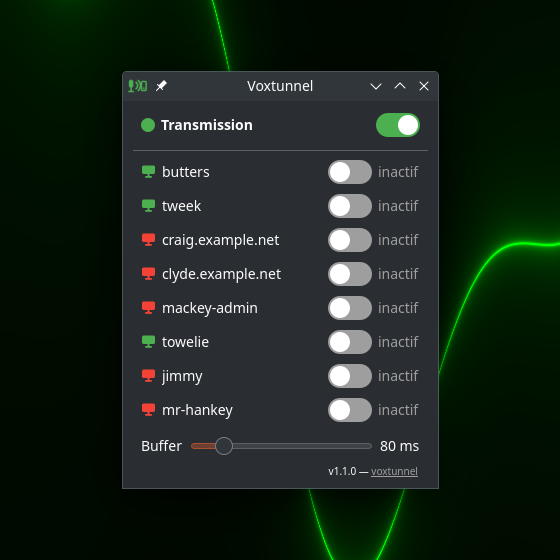
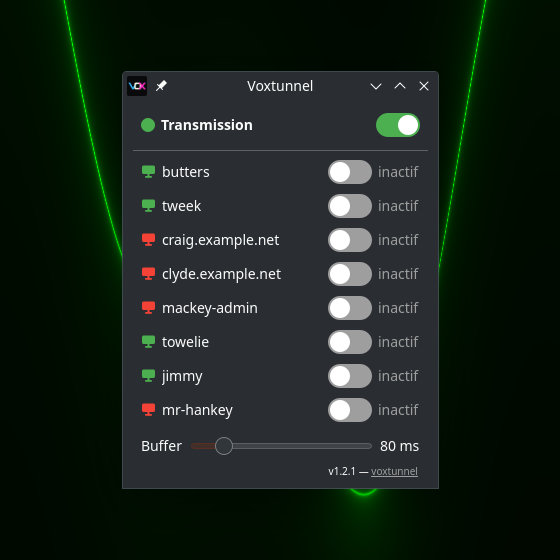
Site: per-OS install paths now builds exist, refresh window shot to 1.2.1
The install section predated the packaged releases: Windows and macOS
shared one cramped block that sent everyone to a git clone. Now that
tagged releases ship debs, WSL2 users install the same voxtunnel_*.deb
as Linux, so the site gets one clear block per OS (Windows via WSL2
with the deb, macOS from source, still experimental) and the CLI block
points at the engine shipped in the package. client-windows/README
follows. New app screenshot taken with 1.2.1 and the VOX titlebar icon.

Claude-Session: https://claude.ai/code/session_011Hc76g1frfqREQeQCf29uG

diff --git a/docs/fr/index.html b/docs/fr/index.html
@@ -390,8 +390,9 @@ a { color: var(--blue); }
   </div>
 
   <div class="term">
-    <div class="term-head"><span>client (bureau)</span><button data-copy="cli">copier</button></div>
-    <pre id="cli"><span class="g">sudo</span> apt install ./voxtunnel_*.deb
+    <div class="term-head"><span>client (bureau Linux)</span><button data-copy="cli">copier</button></div>
+    <pre id="cli"><span class="c"># même page de releases, le fichier voxtunnel_*.deb</span>
+<span class="g">sudo</span> apt install ./voxtunnel_*.deb
 voxtunnel</pre>
   </div>
 
@@ -406,12 +407,25 @@ python3 voxtunnel-tray.py
   </div>
 
   <div class="term">
-    <div class="term-head"><span>macOS / Windows — expérimental</span><button data-copy="xp">copier</button></div>
-    <pre id="xp"><span class="c"># macOS : brew install ffmpeg python ; pip3 install PyQt5</span>
-<span class="c"># Windows : WSL2 recommandé (voir client-windows/) ; natif : winget install ffmpeg python ; pip install PyQt5</span>
+    <div class="term-head"><span>Windows — WSL2, recommandé</span><button data-copy="win">copier</button></div>
+    <pre id="win"><span class="c"># le client Linux tourne tel quel dans WSL2 : WSLg relaie le micro</span>
+<span class="c"># Windows et affiche la fenêtre sur le bureau Windows</span>
+wsl --install -d Debian
+<span class="c"># puis, dans WSL, avec le même voxtunnel_*.deb que ci-dessus :</span>
+<span class="g">sudo</span> apt install ./voxtunnel_*.deb
+voxtunnel
+<span class="c"># les clés SSH vont dans le home WSL (~/.ssh), pas celui de Windows</span>
+<span class="c"># pas de WSL ? voie native (expérimentale, pas encore de build) : client-windows/</span></pre>
+  </div>
+
+  <div class="term">
+    <div class="term-head"><span>macOS — depuis les sources, expérimental</span><button data-copy="mac">copier</button></div>
+    <pre id="mac"><span class="c"># pas encore de build packagé : l'app de barre de menus se lance depuis un clone</span>
+<span class="g">brew</span> install ffmpeg python
+pip3 install PyQt5
 <span class="g">git</span> clone https://github.com/remmmi/voxtunnel.git
 python3 voxtunnel/client/voxtunnel-tray.py
-<span class="c"># testé en CI uniquement, jamais sur du vrai matériel - détails dans client-macos/ et client-windows/</span></pre>
+<span class="c"># macOS demande la permission micro à la première capture - détails dans client-macos/</span></pre>
   </div>
 
   <p class="wanted">Vous avez un Mac ou une machine Windows ? Ces clients
@@ -423,8 +437,10 @@ python3 voxtunnel/client/voxtunnel-tray.py
 
   <div class="term">
     <div class="term-head"><span>sans interface graphique</span><button data-copy="cli2">copier</button></div>
-    <pre id="cli2"><span class="g">VPS_HOST</span>=user@mon-vps ./voxtunnel.sh --check
-<span class="g">VPS_HOST</span>=user@mon-vps ./voxtunnel.sh</pre>
+    <pre id="cli2"><span class="c"># Linux / WSL - le moteur est livré avec le .deb :</span>
+<span class="g">VPS_HOST</span>=user@mon-vps /usr/share/voxtunnel/voxtunnel.sh --check
+<span class="g">VPS_HOST</span>=user@mon-vps /usr/share/voxtunnel/voxtunnel.sh
+<span class="c"># macOS : client-macos/voxtunnel.sh - Windows : client-windows\voxtunnel.cmd user@vps "Nom du micro"</span></pre>
   </div>
 </section>
 

diff --git a/docs/index.html b/docs/index.html
@@ -388,8 +388,9 @@ a { color: var(--blue); }
   </div>
 
   <div class="term">
-    <div class="term-head"><span>client (desktop)</span><button data-copy="cli">copy</button></div>
-    <pre id="cli"><span class="g">sudo</span> apt install ./voxtunnel_*.deb
+    <div class="term-head"><span>client (Linux desktop)</span><button data-copy="cli">copy</button></div>
+    <pre id="cli"><span class="c"># same releases page, the voxtunnel_*.deb file</span>
+<span class="g">sudo</span> apt install ./voxtunnel_*.deb
 voxtunnel</pre>
   </div>
 
@@ -404,12 +405,25 @@ python3 voxtunnel-tray.py
   </div>
 
   <div class="term">
-    <div class="term-head"><span>macOS / Windows — experimental</span><button data-copy="xp">copy</button></div>
-    <pre id="xp"><span class="c"># macOS: brew install ffmpeg python; pip3 install PyQt5</span>
-<span class="c"># Windows: WSL2 recommended (see client-windows/); native: winget install ffmpeg python; pip install PyQt5</span>
+    <div class="term-head"><span>Windows — WSL2, recommended</span><button data-copy="win">copy</button></div>
+    <pre id="win"><span class="c"># the Linux client runs as-is inside WSL2: WSLg forwards the Windows</span>
+<span class="c"># microphone and shows the window on the Windows desktop</span>
+wsl --install -d Debian
+<span class="c"># then, inside WSL, with the same voxtunnel_*.deb as above:</span>
+<span class="g">sudo</span> apt install ./voxtunnel_*.deb
+voxtunnel
+<span class="c"># SSH keys go in the WSL home (~/.ssh), not the Windows one</span>
+<span class="c"># no WSL? native path (experimental, no build yet): client-windows/</span></pre>
+  </div>
+
+  <div class="term">
+    <div class="term-head"><span>macOS — from source, experimental</span><button data-copy="mac">copy</button></div>
+    <pre id="mac"><span class="c"># no packaged build yet: the menu bar app runs from a clone</span>
+<span class="g">brew</span> install ffmpeg python
+pip3 install PyQt5
 <span class="g">git</span> clone https://github.com/remmmi/voxtunnel.git
 python3 voxtunnel/client/voxtunnel-tray.py
-<span class="c"># CI-tested only, never on real hardware - details in client-macos/ and client-windows/</span></pre>
+<span class="c"># macOS asks for mic permission on first capture - details in client-macos/</span></pre>
   </div>
 
   <p class="wanted">Got a Mac or a Windows box? These clients have only ever
@@ -419,8 +433,10 @@ python3 voxtunnel/client/voxtunnel-tray.py
 
   <div class="term">
     <div class="term-head"><span>no GUI needed</span><button data-copy="cli2">copy</button></div>
-    <pre id="cli2"><span class="g">VPS_HOST</span>=user@my-vps ./voxtunnel.sh --check
-<span class="g">VPS_HOST</span>=user@my-vps ./voxtunnel.sh</pre>
+    <pre id="cli2"><span class="c"># Linux / WSL - the engine ships with the .deb:</span>
+<span class="g">VPS_HOST</span>=user@my-vps /usr/share/voxtunnel/voxtunnel.sh --check
+<span class="g">VPS_HOST</span>=user@my-vps /usr/share/voxtunnel/voxtunnel.sh
+<span class="c"># macOS: client-macos/voxtunnel.sh - Windows: client-windows\voxtunnel.cmd user@vps "Mic name"</span></pre>
   </div>
 </section>
 

diff --git a/client-windows/README.md b/client-windows/README.md
@@ -9,14 +9,15 @@ tray icon is not relayed):
 
 ```
 wsl --install -d Debian
-# inside WSL:
-sudo apt install alsa-utils openssh-client python3-pyqt5
-git clone https://github.com/remmmi/voxtunnel.git
-VPS_HOST=user@vps voxtunnel/client/voxtunnel.sh --check
-python3 voxtunnel/client/voxtunnel-tray.py
+# inside WSL, with voxtunnel_*.deb downloaded from
+# github.com/remmmi/voxtunnel/releases/latest:
+sudo apt install ./voxtunnel_*.deb
+voxtunnel
 ```
 
-SSH keys live in the WSL home (`~/.ssh`), not the Windows one.
+The .deb pulls its own dependencies. SSH keys live in the WSL home
+(`~/.ssh`), not the Windows one. To run from source instead, clone the
+repository and launch `client/voxtunnel-tray.py` with python3.
 
 ## Native path (experimental)
 
